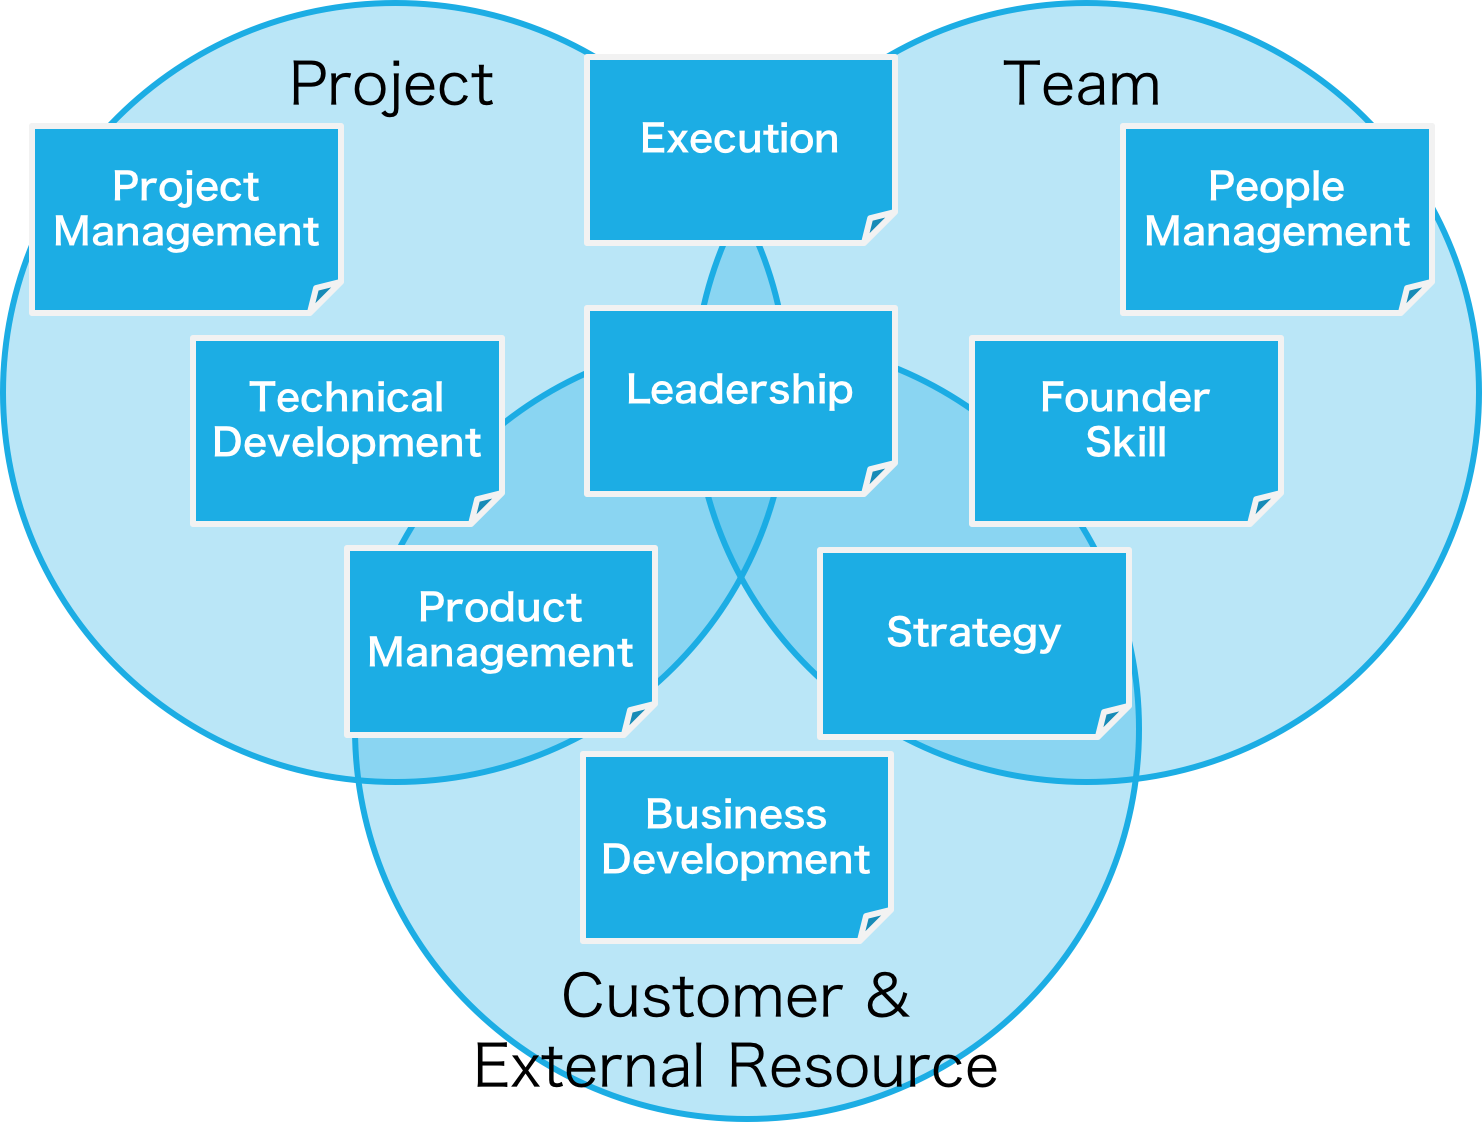
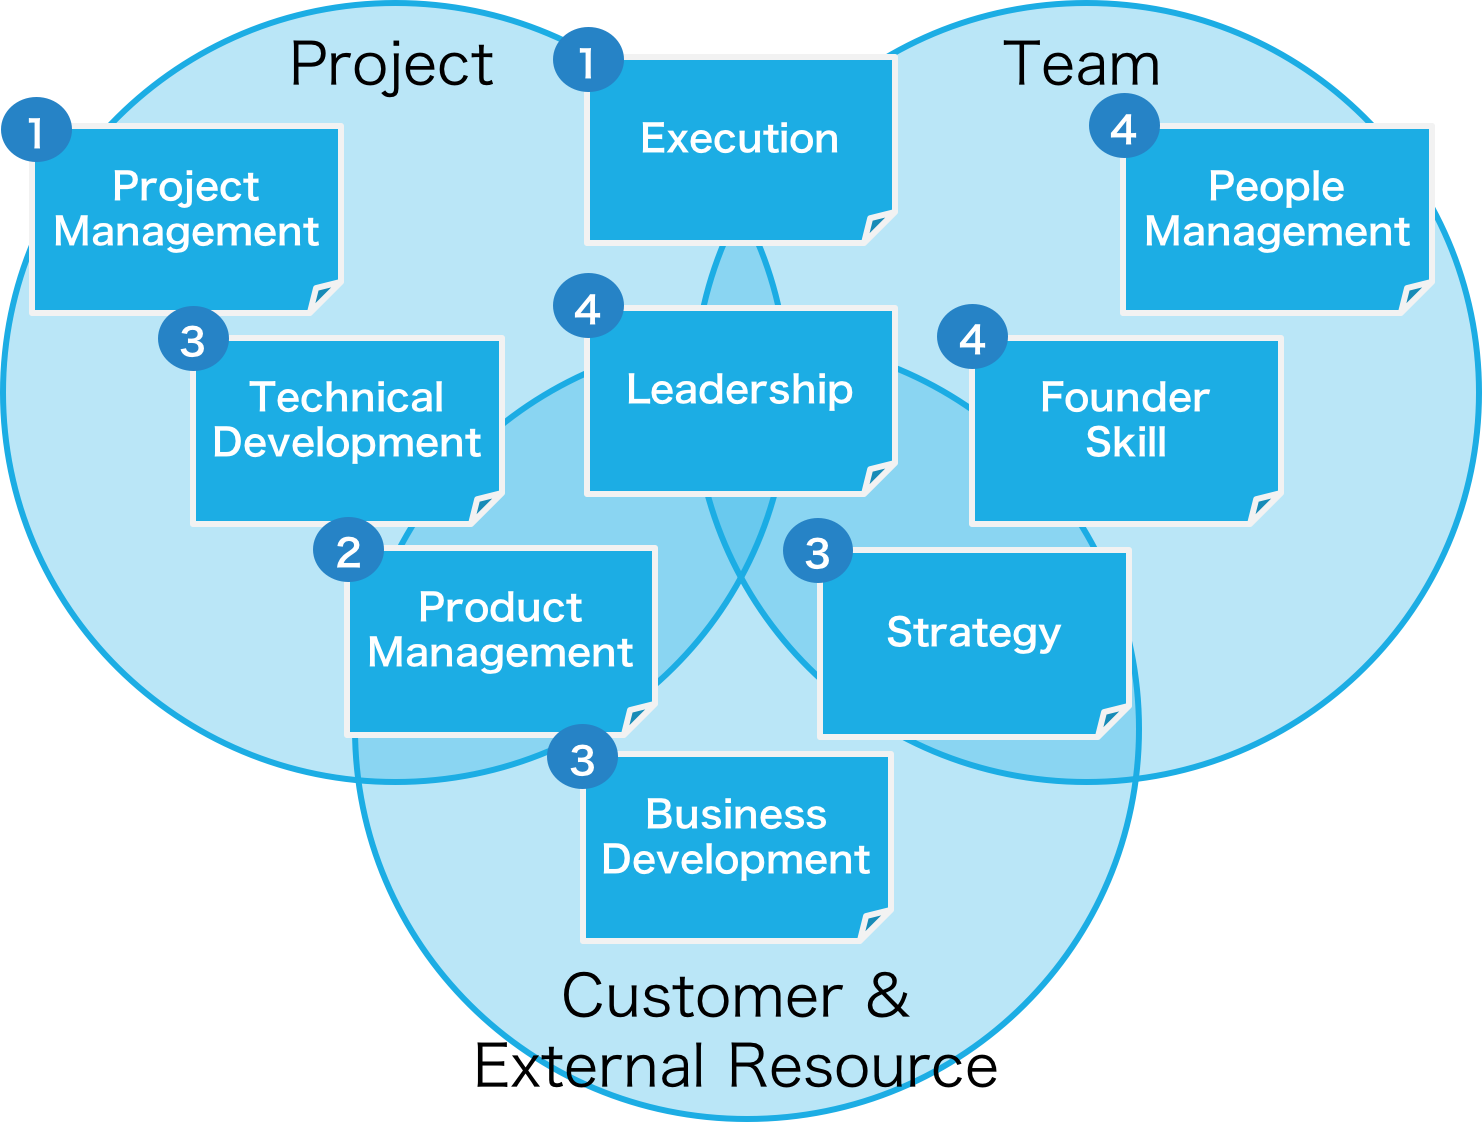
upate

diff --git a/leader.md b/leader.md
@@ -32,7 +32,9 @@ permalink: /program/leader/
 ## メッセージ
 
 
-![スキルマップ](/assets/images/leaderprogram.png)
+### 本コースの全体像
+
+![グラッフィクシラバス](/assets/images/leaderprogram.png)
 
 
 
